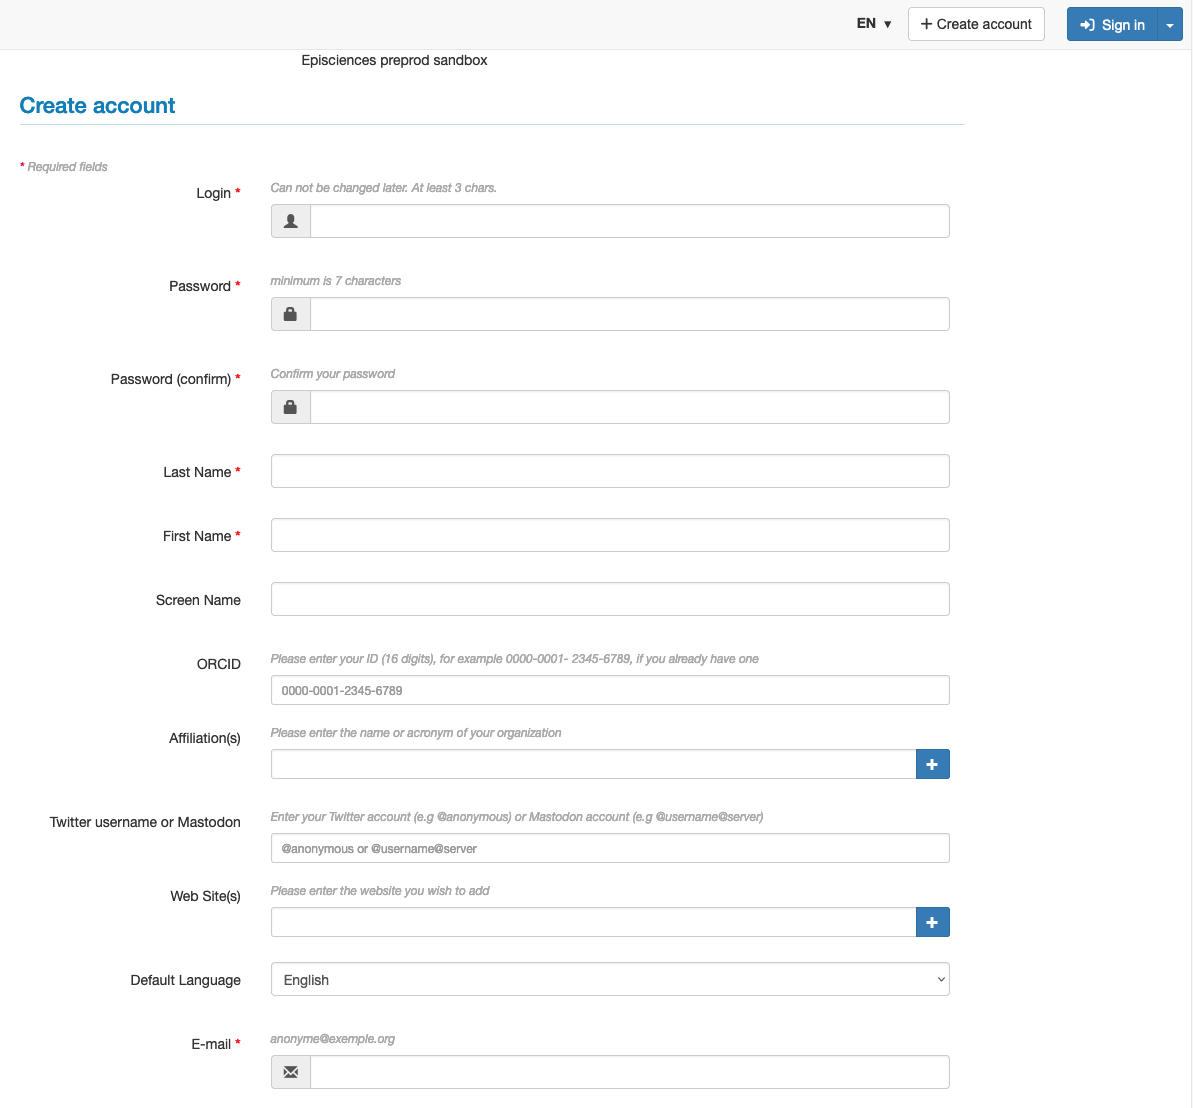
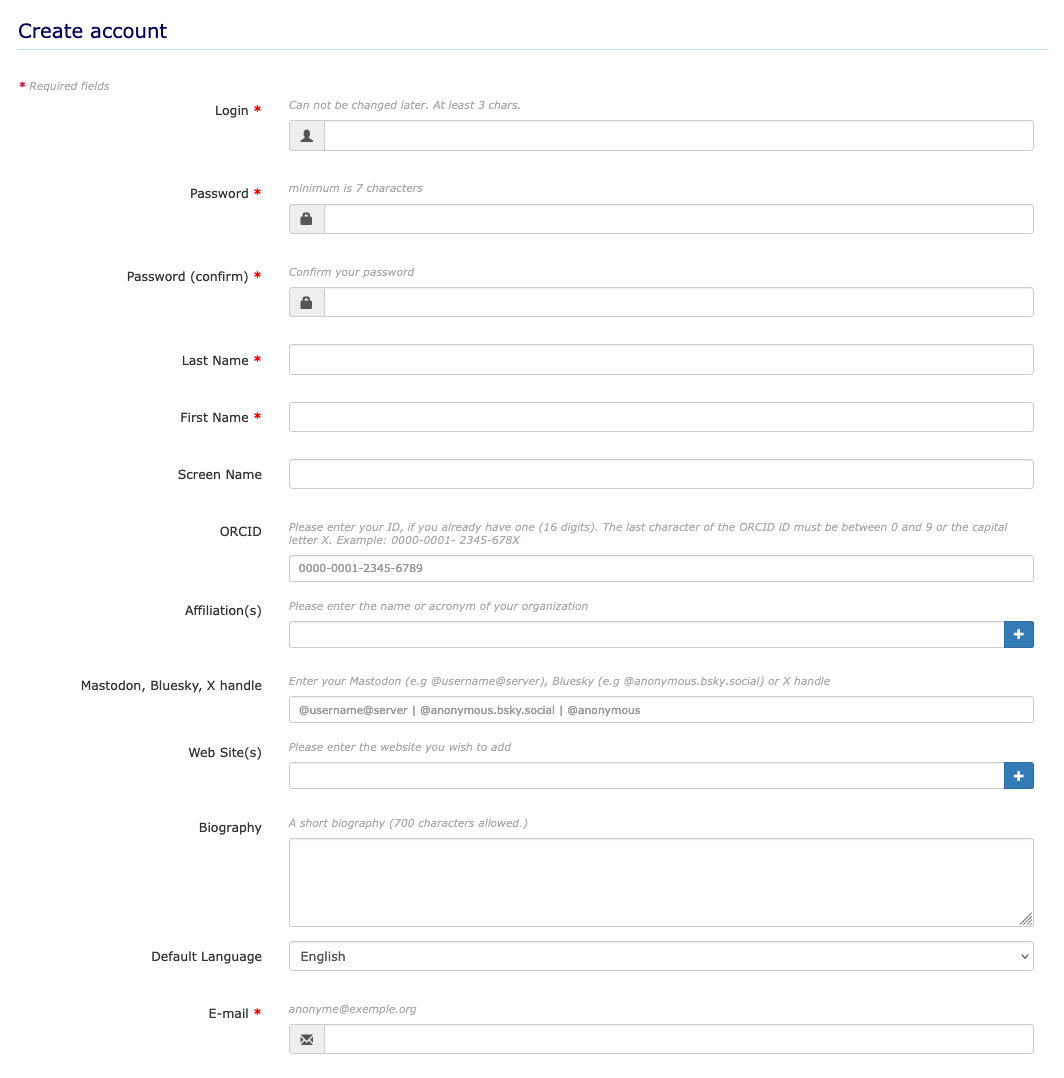
update account: add fields form

diff --git a/docs/en/account.md b/docs/en/account.md
@@ -12,13 +12,15 @@ There are two steps to creating an account:
 
 On the journal’s website, click on "+ Create account" at the top right.
 
+![Alt text](img/account-0.png "Create account")
+
 Fields marked with an asterisk are required.
 
-![Alt text](img/account-1.png "Create account")
+![Alt text](img/account-1.png "Create account: form")
 
 Enter the information:
 
-+ **Login***: this is your user name. It must be at least 3 characters long and cannot be changed afterwards;
++ **Login***: this is your username. It must be at least 3 characters long and cannot be changed afterwards;
 + **Password***: this must be at least 7 characters long;
 + **Password (confirm)***: confirm password;
 + **Last Name***: with a capital letter in the first letter (e.g. Jones);
@@ -26,9 +28,9 @@ Enter the information:
 + **Screen Name**: by default, your first and last name will be displayed;
 + **ORCID**: if you already have one, enter your 16-digit ID here;
 + **Affiliation(s)**: name or acronym of your organisation(s) (only one per line: use the + button to add more lines);
-+ **Twitter username or Mastodon**: enter your Twitter account (e.g @anonymous) or Mastodon account (e.g 
-  @username@server);
-  **Web Site(s)**: enter the website you wish to add (only one per line: use the + button to add more lines);
++ **Mastodon, Bluesky, X handle**: if you wish to add your account to one of these social networks;
++ **Web Site(s)**: enter the website you wish to add (only one per line: use the + button to add more lines);
++ **Biography**: a short presentation of yourself (700 characters allowed);
 + **Default Language**: choose English or French as the language to be displayed in the interface;
 + **E-mail***: indicate here a valid address to which the validation link will be sent.
 
@@ -51,7 +53,7 @@ The following information can be added to your account after its creation:
 + **Middle Name**;
 + **Picture**: jpg, .gif or .png format.
 
-You can also add your **ORCID**, fill in your **affiliations** and change the **default language** of the interface.
+You can also add your **ORCID**, fill in your **affiliations**, your **Mastodon, Bluesky, X handle**, your **website(s)** or your **biography** and change the **default language** of the interface.
 
 ## Changing your password
 To change your password, log in and click on “Change my password” in the top right-hand corner.
